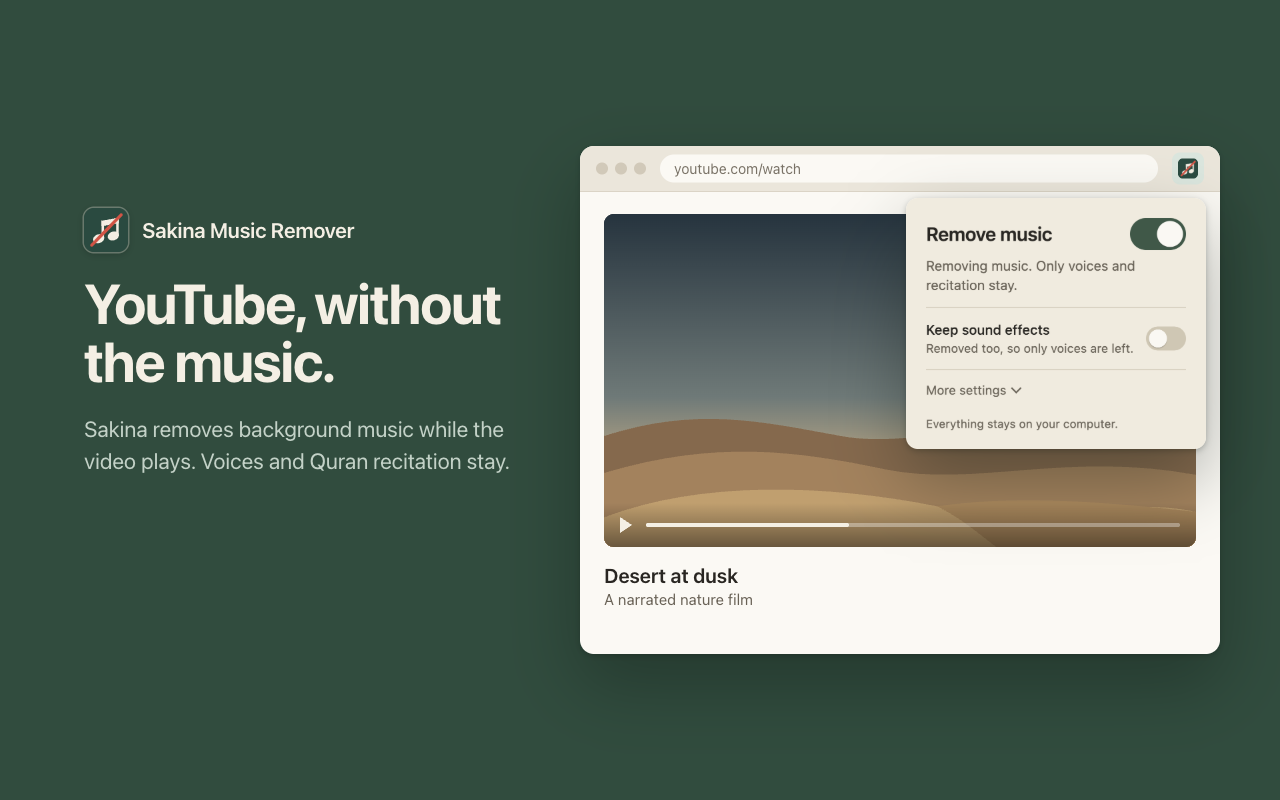
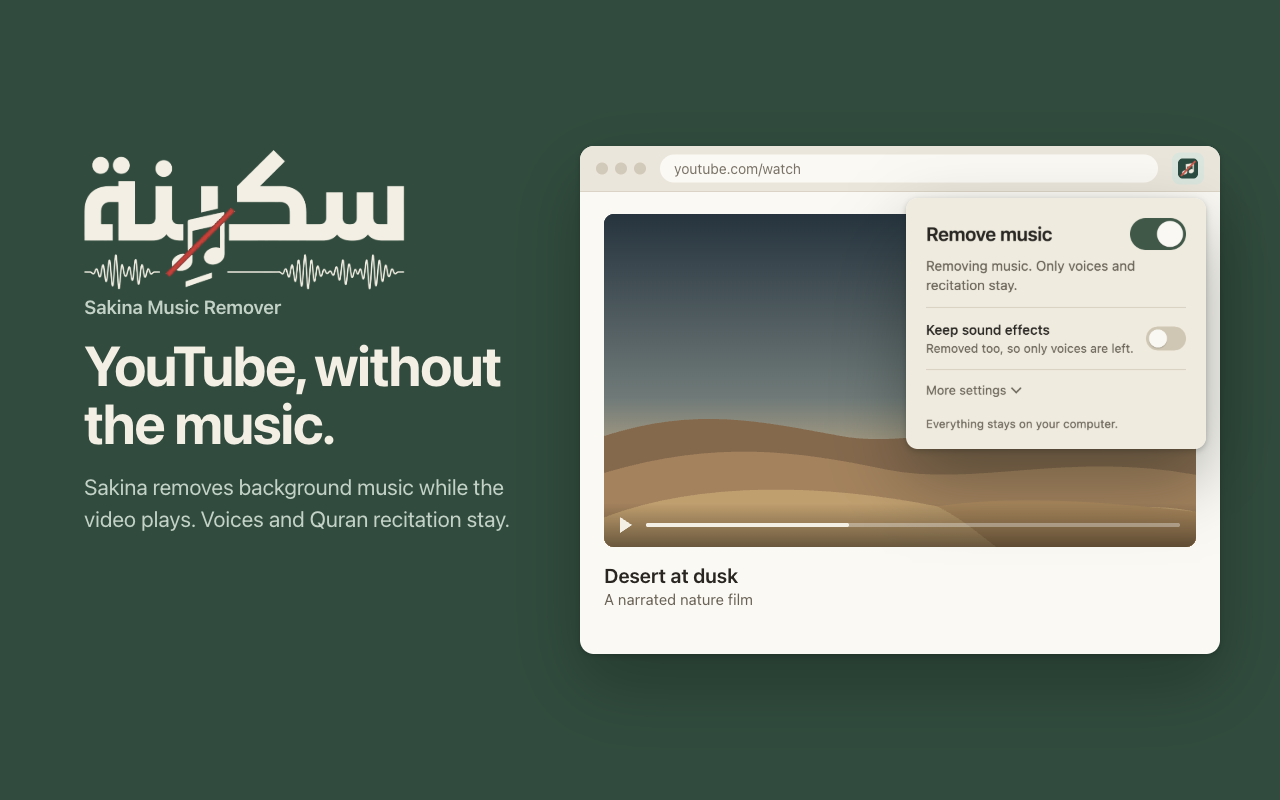
Store art: the سكينة wordmark on screenshot 1 and the small promo tile

Changed region(s): [[0.0625, 0.1875, 0.4062, 0.6562]]

diff --git a/store/art/promo.html b/store/art/promo.html
@@ -1,5 +1,5 @@
 <!doctype html><html><head><meta charset="utf-8"><link rel="stylesheet" href="gallery.css">
-<style>body { width: 440px; height: 280px; display: flex; flex-direction: column; justify-content: center; gap: 14px; padding: 0 40px; }
-img { width: 60px; height: 60px; border-radius: 13px; box-shadow: 0 0 0 2px rgba(245, 239, 227, .3), 0 4px 14px rgba(10, 24, 18, .35); }
-h2 { font-size: 30px; font-weight: 700; letter-spacing: -0.6px; line-height: 1.1; } p { font-size: 18px; color: var(--cover-soft); }</style></head><body>
-<img src="icon.svg" alt=""><h2>Sakina Music Remover</h2><p>YouTube without the music.</p></body></html>
+<style>body { width: 440px; height: 280px; display: flex; flex-direction: column; align-items: center; justify-content: center; text-align: center; }
+.wm { width: 300px; display: block; margin: -14px 0 -4px; }
+h2 { font-size: 24px; font-weight: 700; letter-spacing: -0.4px; line-height: 1.15; } p { margin-top: 4px; font-size: 16px; color: var(--cover-soft); }</style></head><body>
+<img class="wm" src="wordmark-cream.png" alt="سكينة"><h2>Sakina Music Remover</h2><p>YouTube without the music.</p></body></html>

diff --git a/store/art/gallery.css b/store/art/gallery.css
@@ -22,6 +22,10 @@ body {
 .brand { display: flex; align-items: center; gap: 14px; }
 .brand img { width: 44px; height: 44px; border-radius: 10px; box-shadow: 0 0 0 1.5px rgba(245, 239, 227, .3), 0 2px 8px rgba(10, 24, 18, .3); }
 .brand .name { font-size: 21px; font-weight: 600; letter-spacing: -0.2px; color: var(--cover-ink); }
+/* The Arabic wordmark from the logo (cut out by make-wordmark.py); the PNG has a 24 px margin baked in. */
+.mark { display: flex; flex-direction: column; gap: 6px; }
+.mark img { width: 340px; margin: -10px 0 -10px -10px; display: block; }
+.mark .name { font-size: 19px; font-weight: 600; letter-spacing: -0.1px; color: var(--cover-soft); }
 .head { position: absolute; left: 84px; top: 88px; width: 470px; display: flex; flex-direction: column; gap: 22px; }
 h1 { font-size: 56px; line-height: 1.04; font-weight: 700; letter-spacing: -1.4px; }
 .sub { font-size: 22px; line-height: 1.45; color: var(--cover-soft); }

diff --git a/store/art/gallery-1.html b/store/art/gallery-1.html
@@ -1,6 +1,6 @@
 <!doctype html><html><head><meta charset="utf-8"><link rel="stylesheet" href="gallery.css"></head><body>
-<div class="head" style="top:208px">
-  <div class="brand"><img src="icon.svg" alt=""><span class="name">Sakina Music Remover</span></div>
+<div class="head" style="top:150px; gap:18px">
+  <div class="mark"><img src="wordmark-cream.png" alt="سكينة"><span class="name">Sakina Music Remover</span></div>
   <h1>YouTube, without the music.</h1>
   <p class="sub">Sakina removes background music while the video plays. Voices and Quran recitation stay.</p>
 </div>

diff --git a/store/art/make-wordmark.py b/store/art/make-wordmark.py
@@ -1,0 +1,40 @@
+"""Cuts the Sakina wordmark (سكينة with the crossed-out note and sound waves) out of logo-source.jpg.
+
+Writes, next to this file:
+  wordmark.png        the logo's own colours on a transparent background, for light backgrounds
+  wordmark-cream.png  the green ink turned cream (the red slash stays red), for the deep green cover
+
+    python3 store/art/make-wordmark.py
+"""
+import pathlib
+from PIL import Image
+
+here = pathlib.Path(__file__).resolve().parent
+src = Image.open(here / "logo-source.jpg").convert("RGB")
+BG = (248, 249, 243)            # the paper the logo was drawn on
+CREAM = (245, 239, 227)         # --cover-ink in gallery.css
+LO, HI = 0.10, 0.80             # paper grain below LO is dropped; HI and above is solid ink
+
+box = (139 - 24, 369 - 24, 884 + 24, 693 + 24)   # the artwork plus a margin
+src = src.crop(box)
+w, h = src.size
+plain = Image.new("RGBA", (w, h))
+cream = Image.new("RGBA", (w, h))
+sp, pp, cp = src.load(), plain.load(), cream.load()
+for y in range(h):
+    for x in range(w):
+        px = sp[x, y]
+        # Colour to alpha: how much darker than the paper the pixel is, relative to black. Ink and the
+        # red slash are darker than the paper in every channel; anything lighter is paper grain.
+        a = max(max(0, BG[c] - px[c]) / BG[c] for c in range(3))
+        a = min(1.0, max(0.0, (a - LO) / (HI - LO)))
+        if a == 0:
+            continue
+        col = tuple(min(255, max(0, round(BG[c] + (px[c] - BG[c]) / a))) for c in range(3))
+        A = round(a * 255)
+        pp[x, y] = col + (A,)
+        red = col[0] - col[1] > 70 and col[0] > 120
+        cp[x, y] = (col if red else CREAM) + (A,)
+plain.save(here / "wordmark.png")
+cream.save(here / "wordmark-cream.png")
+print(f"wrote wordmark.png and wordmark-cream.png ({w}x{h})")
